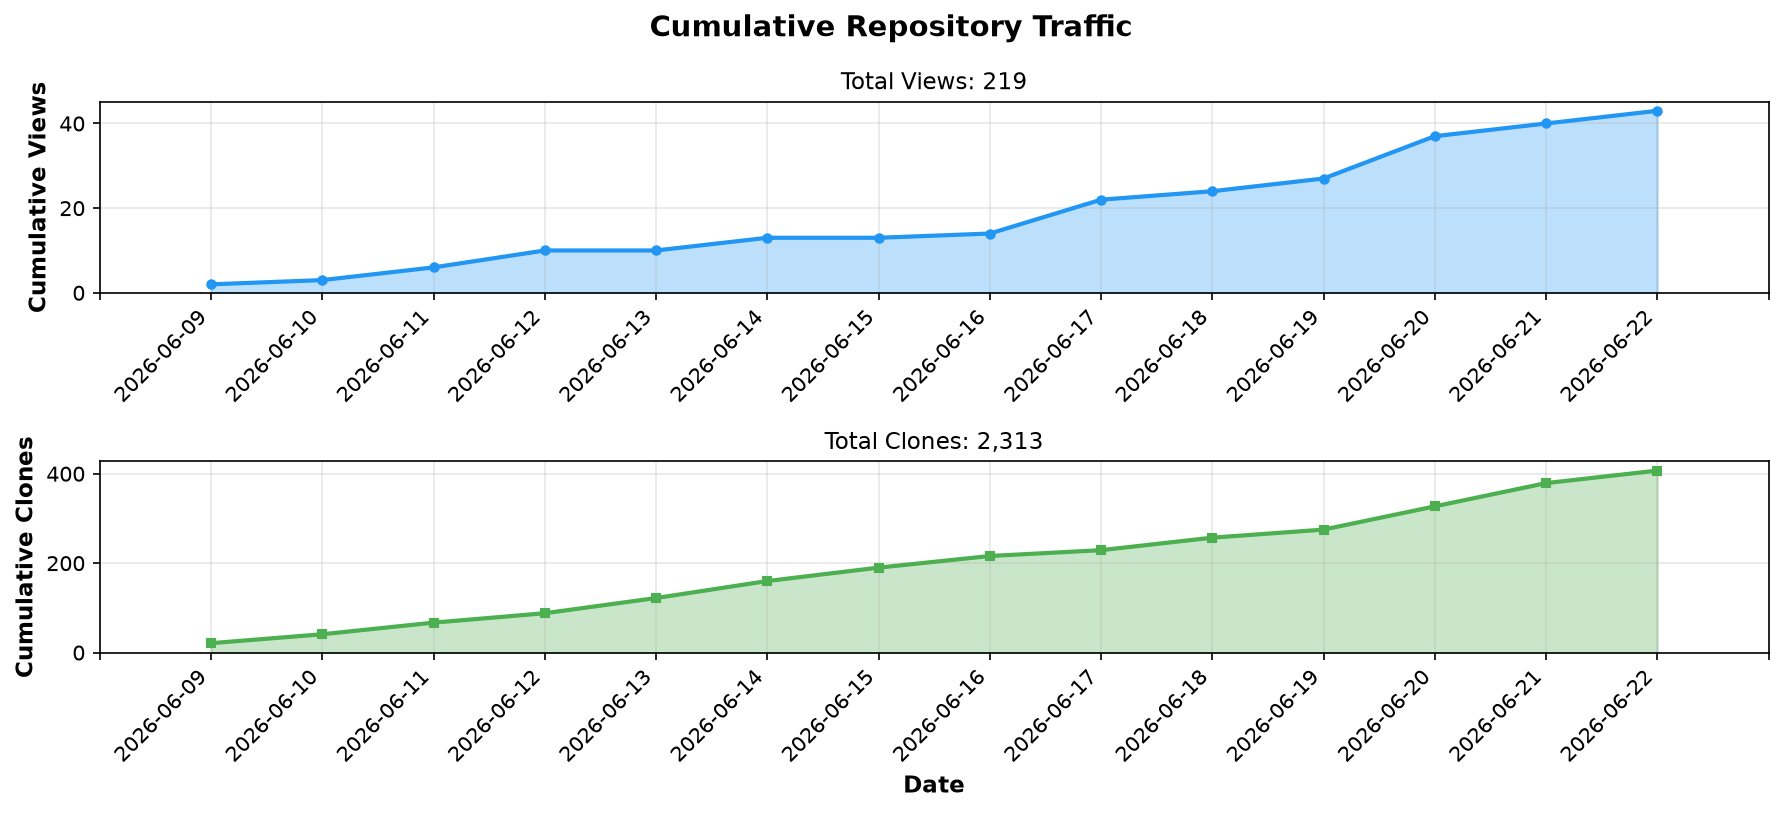
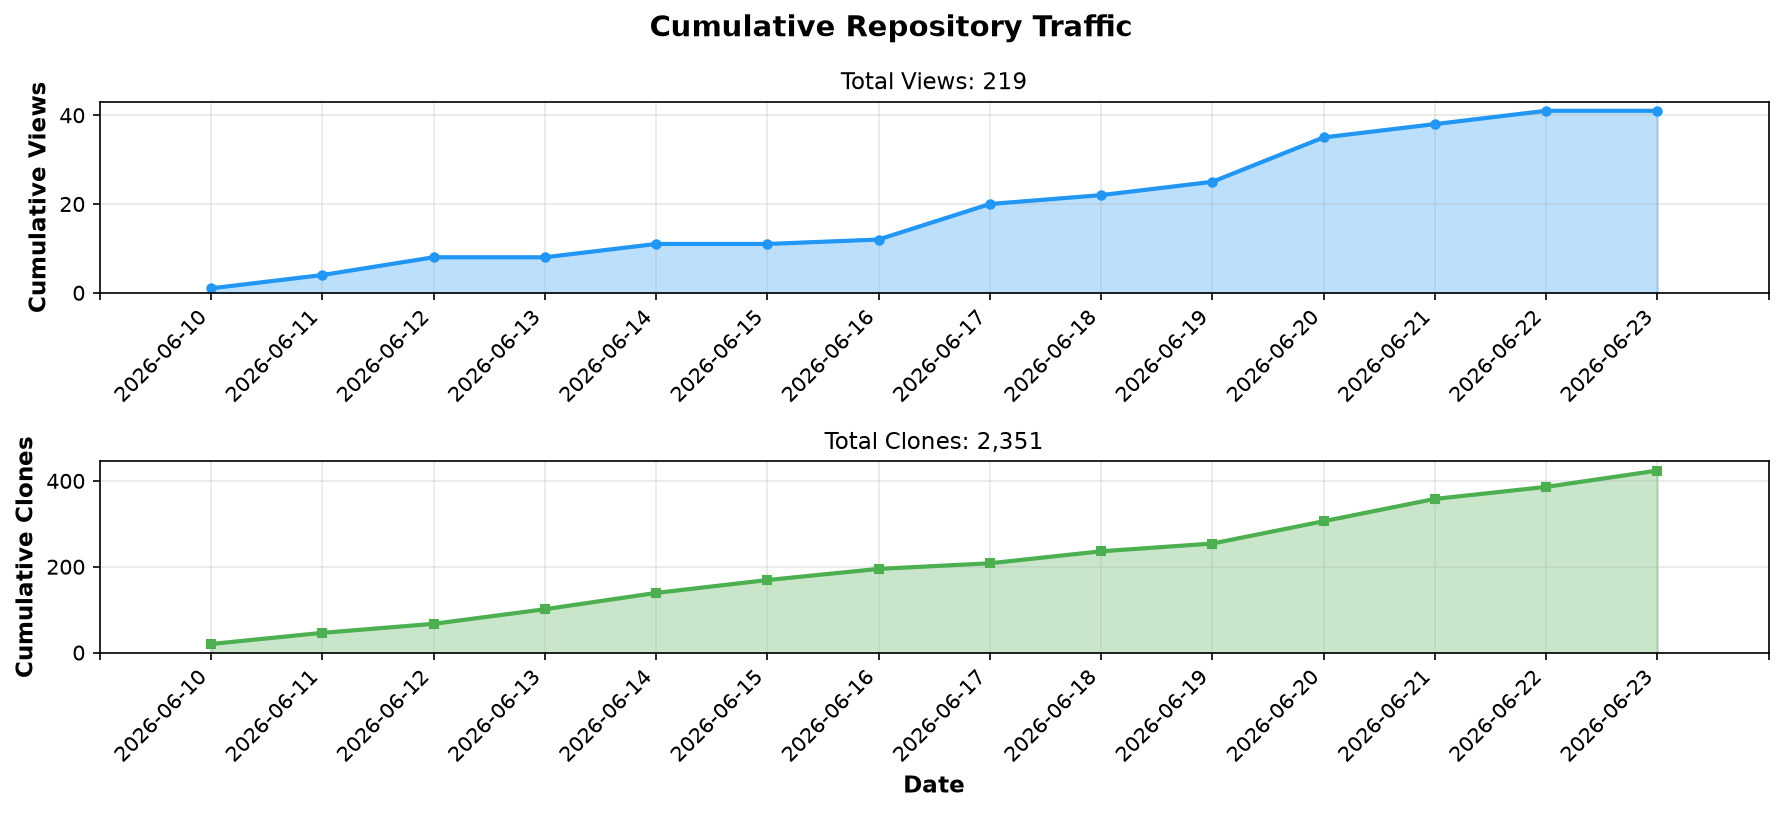
chore: update repository stats [skip ci]

diff --git a/README.md b/README.md
@@ -95,9 +95,9 @@ I'm BonoJovi (Yoshihiro NAKAHARA), the project initiator.
 | Metric | Count |
 |--------|-------|
 | 👁 **Total Views** | **219** |
-| 📦 **Total Clones** | **2,313** |
+| 📦 **Total Clones** | **2,351** |
 
-*Last Updated: 2026-06-24 01:38 UTC*
+*Last Updated: 2026-06-25 01:42 UTC*
 
 </div>
 <!-- STATS_END -->
